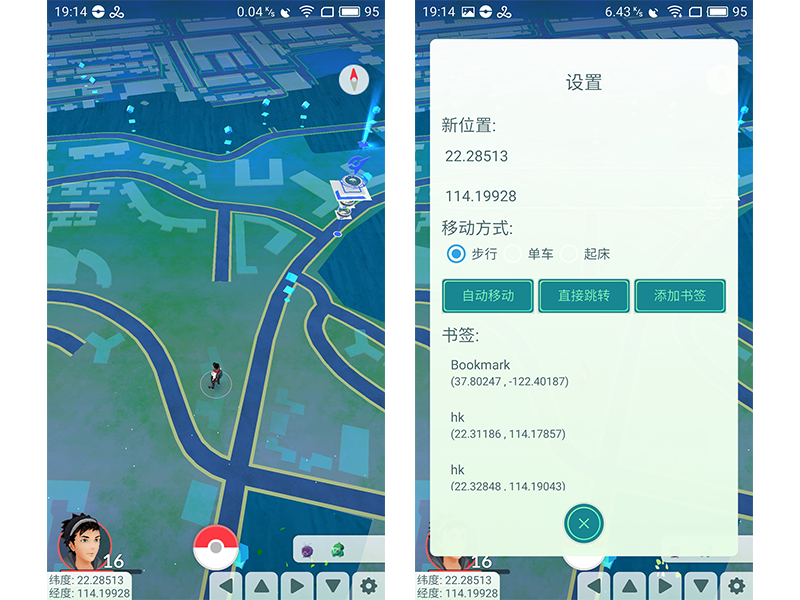
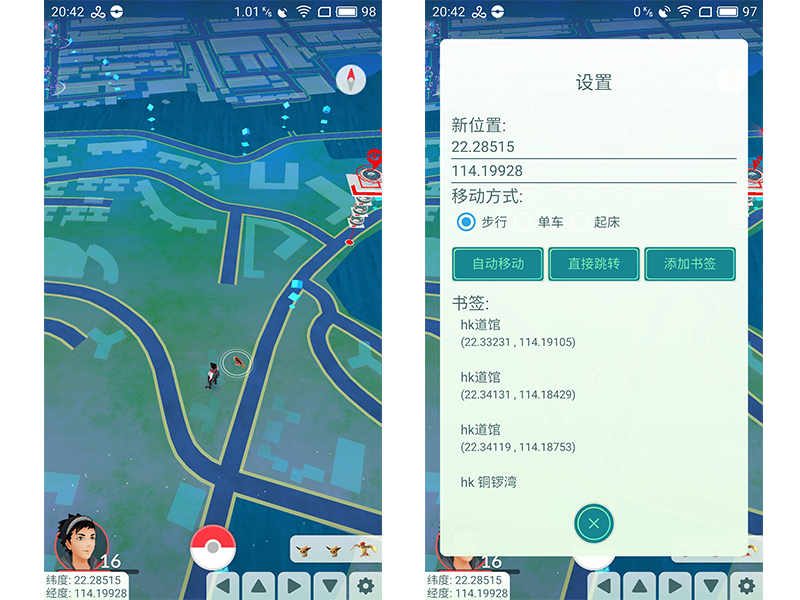
更新 README

diff --git a/app/src/main/java/com/github/fakegps/pokemon/joystick/SettingPanel.java b/app/src/main/java/com/github/fakegps/pokemon/joystick/SettingPanel.java
@@ -2,6 +2,8 @@ package com.github.fakegps.pokemon.joystick;
 
 import android.content.Context;
 import android.graphics.PixelFormat;
+import android.graphics.PorterDuff;
+import android.graphics.drawable.Drawable;
 import android.os.Handler;
 import android.os.Looper;
 import android.view.Gravity;
@@ -51,6 +53,12 @@ public class SettingPanel extends FloatFrameLayout implements IJoyStickView {
 
         mLocationLatEditText = (EditText) findViewById(R.id.inputLat);
         mLocationLonEditText = (EditText) findViewById(R.id.inputLon);
+
+        Drawable drawable = getResources().getDrawable(R.drawable.abc_textfield_default_mtrl_alpha);
+        if (drawable != null)
+            drawable.setColorFilter(getResources().getColor(R.color.float_text_color), PorterDuff.Mode.SRC_IN);
+        mLocationLatEditText.setBackgroundDrawable(drawable);
+        mLocationLonEditText.setBackgroundDrawable(drawable);
 
         mMoveStepGroup = (RadioGroup) findViewById(R.id.inputStep);
         mMoveStepGroup.setOnCheckedChangeListener(new RadioGroup.OnCheckedChangeListener() {
